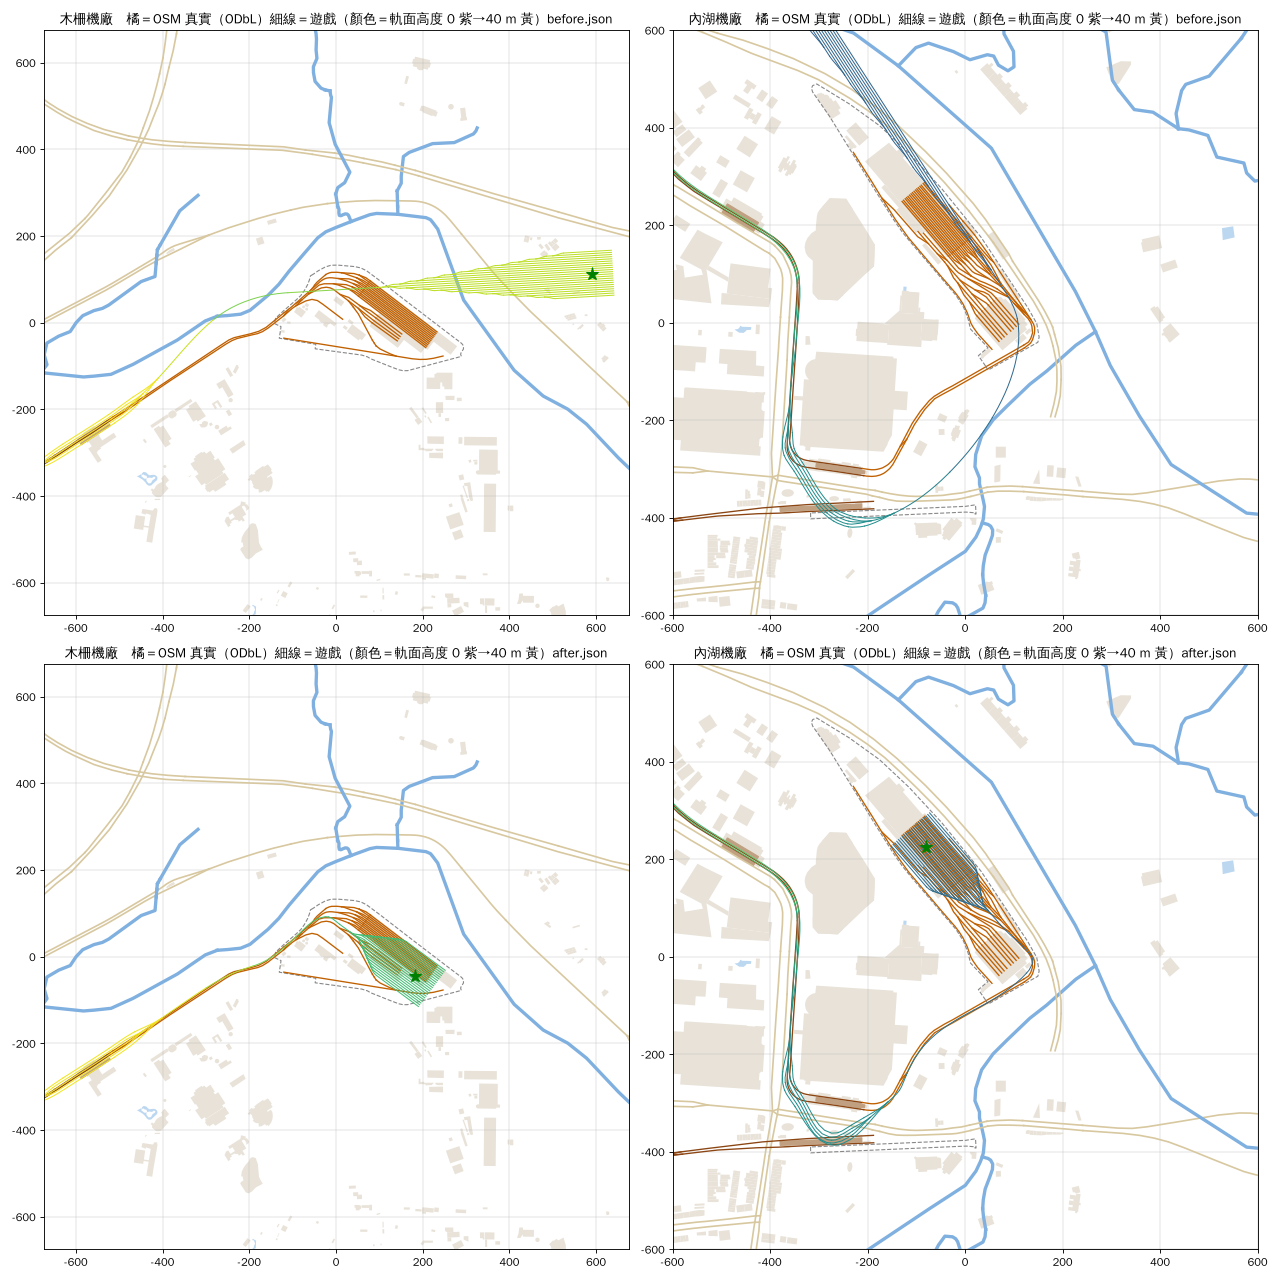
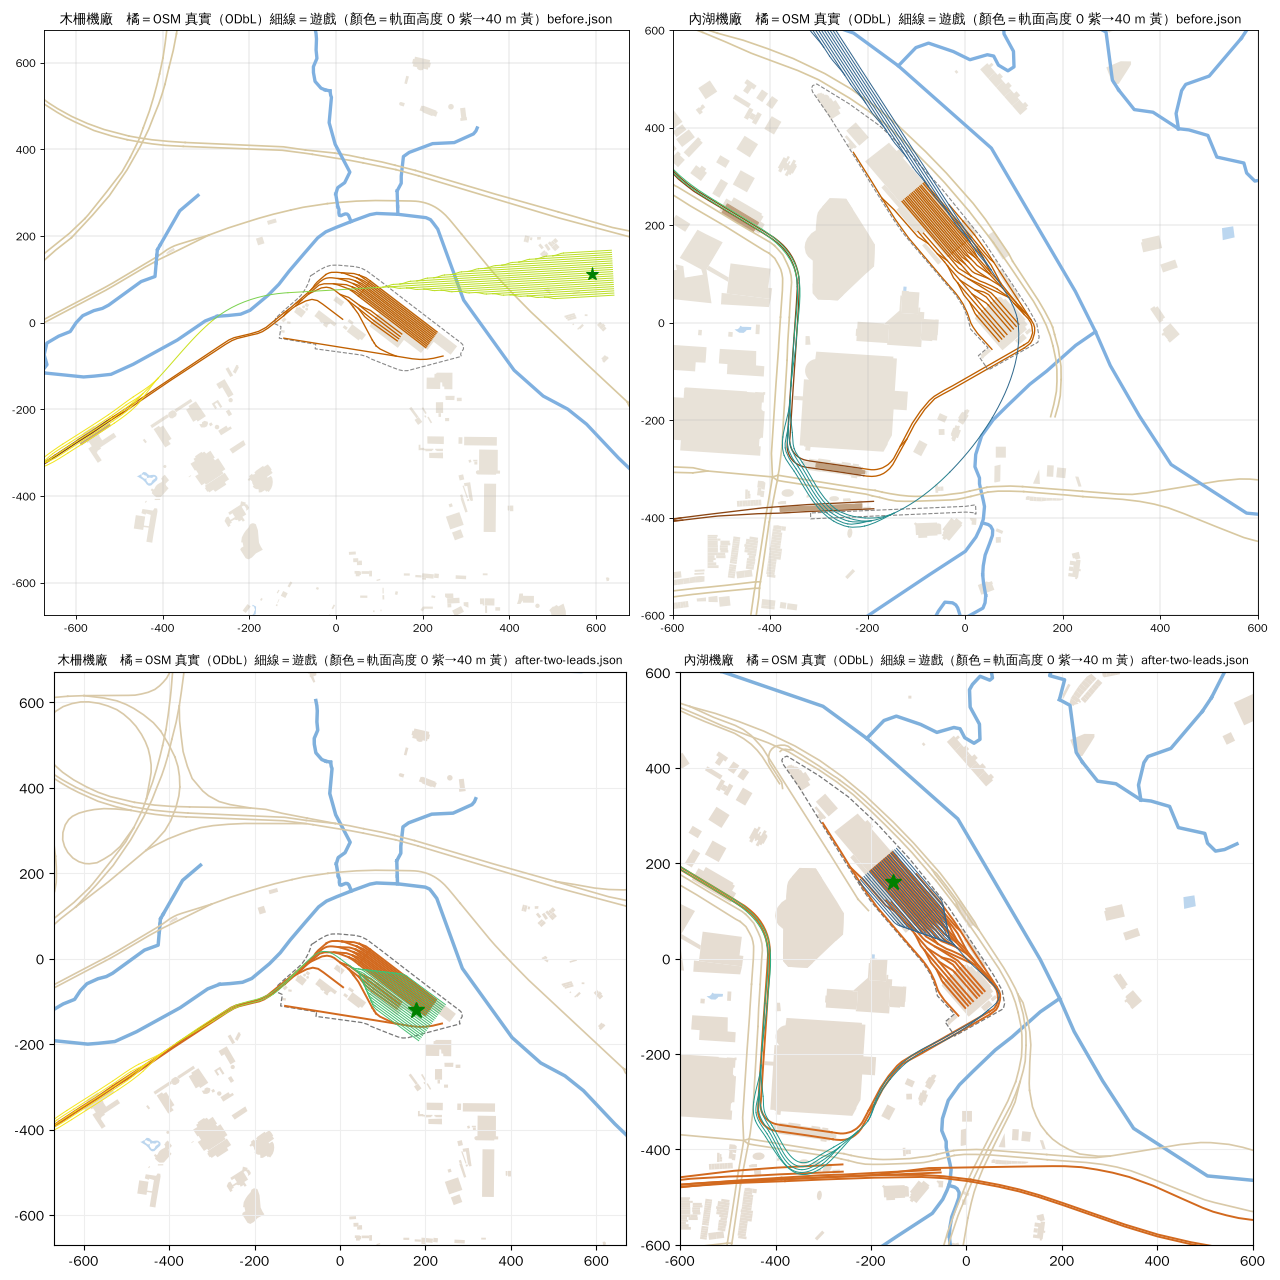
Wenhu depots: dump the bought track and draw it over OSM (decision 602)
WenhuLineTests.testDumpTheDepotTrack (only with WENHU_DEPOT_DUMP) writes
the track near the two depots as latitude, longitude and height;
tools/rail-depots/plot_depots.py draws it over OpenStreetMap's yards.
depots-before-after.png's lower row redrawn with the two leads.

Claude-Session: https://claude.ai/code/session_01YGNNumiit3QNFdxjzTiXqM

diff --git a/Tests/GamePresentationTests/WenhuLineTests.swift b/Tests/GamePresentationTests/WenhuLineTests.swift
@@ -61,6 +61,51 @@ final class WenhuLineTests: XCTestCase {
         }
     }
 
+    /// Decision 602: the bought line's track near the two depots, as
+    /// latitude, longitude and rail height, written to the JSON file
+    /// `WENHU_DEPOT_DUMP` names (only then; skipped otherwise), for
+    /// `tools/rail-depots/plot_depots.py` to draw over OpenStreetMap's yards.
+    func testDumpTheDepotTrack() throws {
+        guard let path = ProcessInfo.processInfo.environment["WENHU_DEPOT_DUMP"] else {
+            throw XCTSkip("WENHU_DEPOT_DUMP=<file.json> writes the depots' track")
+        }
+        let session = try RealLineAcquisitionTests.game(round: "trtc:BR", side: 1 << 21, heights: true)
+        let line = try XCTUnwrap(session.buyableRealLines.first { $0.id == "trtc:BR" }, "on sale")
+        XCTAssertTrue(session.acquireRealLine(session.realLineOffer(for: line)), session.message?.text ?? "")
+        let world = session.world
+        let frame = try XCTUnwrap(RealWorldFrame(world: world))
+        let perMetre = frame.mapPointsPerMetre, units = Double(WorldCoordinate.unitsPerMetre)
+        func geo(_ point: WorldCoordinate) -> [Double] {
+            let east = (Double(point.x) - frame.middleX) / units, south = (Double(point.y) - frame.middleY) / units
+            let longitude = (RealWorldFrame.mercatorX(frame.anchor.longitudeDegrees) + east * perMetre) / RealWorldFrame.worldPoints * 360 - 180
+            let y = RealWorldFrame.mercatorY(frame.anchor.latitudeDegrees) + south * perMetre
+            let latitude = atan(sinh(Double.pi * (1 - 2 * y / RealWorldFrame.worldPoints))) * 180 / .pi
+            return [latitude, longitude, Double(point.z) / units]
+        }
+        var sites: [[String: Any]] = []
+        for site in [RealLineDepotSite.muzha, .neihu] {
+            let near = frame.worldPosition(latitude: site.yard.start.latitude, longitude: site.yard.start.longitude)
+            let far = frame.worldPosition(latitude: site.yard.end.latitude, longitude: site.yard.end.longitude)
+            let middle = ((near.x + far.x) / 2, (near.y + far.y) / 2)
+            var edges: [[[Double]]] = []
+            for edge in world.network.edges {
+                guard let geometry = world.network.geometry(of: edge.id) else { continue }
+                let close = geometry.points.contains { point in
+                    let (dx, dy) = (Double(point.x) - middle.0, Double(point.y) - middle.1)
+                    return (dx * dx + dy * dy).squareRoot() / units < 1_500
+                }
+                if close { edges.append(geometry.points.map(geo)) }
+            }
+            let station = world.stations.first { $0.isDepot && $0.name == site.chinese }
+            sites.append([
+                "name": site.english, "edges": edges,
+                "station": station.map { geo(WorldCoordinate(x: $0.location.x, y: $0.location.y, z: 0)) } ?? [],
+            ])
+        }
+        let data = try JSONSerialization.data(withJSONObject: ["sites": sites])
+        try data.write(to: URL(fileURLWithPath: path))
+    }
+
     /// Where the second track's ramp leaves the first (two ways on from a
     /// switch along the same way, to within 1 in 1,000, with tangents
     /// within 1% of the same length, as the two edges' handles are), a

diff --git a/tools/rail-depots/plot_depots.py b/tools/rail-depots/plot_depots.py
@@ -1,0 +1,126 @@
+#!/usr/bin/env python3
+"""Decision 602: the Wenhu Line's two depots as the game lays them, drawn
+over OpenStreetMap's yards (osmtoday.com's asia/taiwan.pbf, ODbL), one
+row per game dump.
+
+    WENHU_DEPOT_DUMP=after.json swift test --skip-build \\
+        --filter WenhuLineTests/testDumpTheDepotTrack
+    python3 -I plot_depots.py taiwan.pbf out.png after.json [more.json ...]
+
+Each dump is a row: Muzha on the left, Neihu on the right, metres east and
+north of the site's throat (`RealLineDepotSite.Fan.throat`). Orange: OSM's
+railway ways; thin lines: the game's track, coloured by rail height (0 m
+purple to 40 m yellow); star: the game's depot station; dashed: the depot's
+land (landuse=railway); blue: water.
+"""
+import json
+import math
+import sys
+
+import matplotlib
+matplotlib.use("Agg")
+import matplotlib.pyplot as plt
+from matplotlib import font_manager
+import os
+
+import osmium
+
+SITES = [
+    ("木柵機廠", (25.001270, 121.585081), 670, 71266521),
+    ("內湖機廠", (25.058581, 121.621212), 600, 499801370),
+]
+REACH = 900  # metres around each throat read from OSM
+
+
+def metres(origin, lat, lon):
+    k = 111_320.0
+    return ((lon - origin[1]) * k * math.cos(math.radians(origin[0])), (lat - origin[0]) * k)
+
+
+class Reader(osmium.SimpleHandler):
+    def __init__(self):
+        super().__init__()
+        self.ways = {i: {"rail": [], "road": [], "river": [], "water": [], "building": [], "land": []}
+                     for i in range(len(SITES))}
+
+    def way(self, w):
+        tags = w.tags
+        kind = None
+        if "railway" in tags and tags["railway"] in ("rail", "subway", "light_rail", "monorail", "narrow_gauge"):
+            kind = "rail"
+        elif tags.get("highway") in ("motorway", "trunk", "primary", "secondary", "motorway_link", "trunk_link"):
+            kind = "road"
+        elif tags.get("waterway") in ("river", "stream", "canal"):
+            kind = "river"
+        elif tags.get("natural") == "water" or tags.get("waterway") == "riverbank":
+            kind = "water"
+        elif "building" in tags:
+            kind = "building"
+        if kind is None and tags.get("landuse") != "railway":
+            return
+        try:
+            points = [(n.location.lat, n.location.lon) for n in w.nodes]
+        except osmium.InvalidLocationError:
+            return
+        for i, (_, origin, _, land) in enumerate(SITES):
+            local = [metres(origin, *p) for p in points]
+            if not any(abs(x) < REACH and abs(y) < REACH for x, y in local):
+                continue
+            if w.id == land:
+                self.ways[i]["land"].append(local)
+            elif kind:
+                self.ways[i][kind].append(local)
+
+
+def main():
+    pbf, out, dumps = sys.argv[1], sys.argv[2], sys.argv[3:]
+    for f in font_manager.findSystemFonts():
+        if "wqy" in f.lower() or "noto" in f.lower() and "cjk" in f.lower():
+            font_manager.fontManager.addfont(f)
+            plt.rcParams["font.family"] = font_manager.FontProperties(fname=f).get_name()
+            break
+    plt.rcParams["axes.unicode_minus"] = False
+    reader = Reader()
+    reader.apply_file(pbf, locations=True)
+    games = [json.load(open(d)) for d in dumps]
+    fig, axes = plt.subplots(len(games), 2, figsize=(12.8, 6.4 * len(games)), squeeze=False)
+    cmap = plt.get_cmap("viridis")
+    for row, (game, name) in enumerate(zip(games, dumps)):
+        for i, (title, origin, extent, _) in enumerate(SITES):
+            ax = axes[row][i]
+            w = reader.ways[i]
+            for poly in w["building"]:
+                ax.fill(*zip(*poly), color="#e6ddd2", lw=0)
+            for poly in w["water"]:
+                ax.fill(*zip(*poly), color="#bcd6ee", lw=0)
+            for line in w["river"]:
+                ax.plot(*zip(*line), color="#7fb0dc", lw=2.5)
+            for line in w["road"]:
+                ax.plot(*zip(*line), color="#d9c9a8", lw=1.2)
+            for poly in w["land"]:
+                ax.plot(*zip(*poly), color="#777", lw=0.9, ls="--")
+            for line in w["rail"]:
+                ax.plot(*zip(*line), color="#d2691e", lw=1.4)
+            site = game["sites"][i]
+            for edge in site["edges"]:
+                xy = [metres(origin, p[0], p[1]) for p in edge]
+                height = sum(p[2] for p in edge) / len(edge)
+                ax.plot(*zip(*xy), color=cmap(min(max(height / 40, 0), 1)), lw=0.7)
+            if site["station"]:
+                ax.plot(*metres(origin, site["station"][0], site["station"][1]), marker="*", color="green", ms=12)
+            window = os.environ.get("PLOT_WINDOW")  # "x0,x1,y0,y1;x0,x1,y0,y1": a closer look
+            if window:
+                x0, x1, y0, y1 = map(float, window.split(";")[i].split(","))
+            else:
+                x0, x1, y0, y1 = -extent, extent, -extent, extent
+            ax.set_xlim(x0, x1)
+            ax.set_ylim(y0, y1)
+            ax.set_aspect("equal")
+            ax.grid(color="#eee")
+            ax.set_title(f"{title}　橘＝OSM 真實（ODbL）細線＝遊戲（顏色＝軌面高度 0 紫→40 m 黃）{name.split('/')[-1]}", fontsize=9)
+    fig.tight_layout()
+    fig.savefig(out, dpi=100)
+
+
+if __name__ == "__main__":
+    main()
